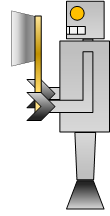
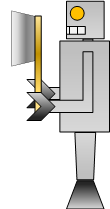
Fixed most of the bot positions, right bot is still one two far over

diff --git a/Server/BattleOfTheBots/LeaderboardForm.Designer.cs b/Server/BattleOfTheBots/LeaderboardForm.Designer.cs
@@ -78,40 +78,37 @@
             this.panel2.Controls.Add(this.lblCurrentMatch);
             this.panel2.Dock = System.Windows.Forms.DockStyle.Top;
             this.panel2.Location = new System.Drawing.Point(0, 0);
-            this.panel2.Margin = new System.Windows.Forms.Padding(4);
             this.panel2.Name = "panel2";
-            this.panel2.Size = new System.Drawing.Size(1582, 86);
+            this.panel2.Size = new System.Drawing.Size(1186, 70);
             this.panel2.TabIndex = 1;
             // 
             // lblCurrentMatch
             // 
             this.lblCurrentMatch.AutoSize = true;
             this.lblCurrentMatch.Font = new System.Drawing.Font("Microsoft Sans Serif", 18F, System.Drawing.FontStyle.Regular, System.Drawing.GraphicsUnit.Point, ((byte)(0)));
-            this.lblCurrentMatch.Location = new System.Drawing.Point(16, 26);
-            this.lblCurrentMatch.Margin = new System.Windows.Forms.Padding(4, 0, 4, 0);
+            this.lblCurrentMatch.Location = new System.Drawing.Point(12, 21);
             this.lblCurrentMatch.Name = "lblCurrentMatch";
-            this.lblCurrentMatch.Size = new System.Drawing.Size(203, 36);
+            this.lblCurrentMatch.Size = new System.Drawing.Size(162, 29);
             this.lblCurrentMatch.TabIndex = 0;
             this.lblCurrentMatch.Text = "Current Match";
             // 
             // panel1
             // 
+            this.panel1.BackColor = System.Drawing.Color.Transparent;
             this.panel1.Controls.Add(this.panelBotUIDock);
             this.panel1.Controls.Add(this.gridLeaderboard);
             this.panel1.Dock = System.Windows.Forms.DockStyle.Fill;
-            this.panel1.Location = new System.Drawing.Point(0, 86);
-            this.panel1.Margin = new System.Windows.Forms.Padding(4);
+            this.panel1.Location = new System.Drawing.Point(0, 70);
             this.panel1.Name = "panel1";
-            this.panel1.Size = new System.Drawing.Size(1582, 774);
+            this.panel1.Size = new System.Drawing.Size(1186, 674);
             this.panel1.TabIndex = 2;
             // 
             // panelBotUIDock
             // 
             this.panelBotUIDock.Dock = System.Windows.Forms.DockStyle.Fill;
-            this.panelBotUIDock.Location = new System.Drawing.Point(0, 367);
-            this.panelBotUIDock.Margin = new System.Windows.Forms.Padding(4);
+            this.panelBotUIDock.Location = new System.Drawing.Point(0, 267);
             this.panelBotUIDock.Name = "panelBotUIDock";
-            this.panelBotUIDock.Size = new System.Drawing.Size(1582, 407);
+            this.panelBotUIDock.Size = new System.Drawing.Size(1186, 407);
             this.panelBotUIDock.TabIndex = 2;
             // 
             // gridLeaderboard
@@ -131,7 +128,6 @@
             this.gridLeaderboard.Enabled = false;
             this.gridLeaderboard.EnableHeadersVisualStyles = false;
             this.gridLeaderboard.Location = new System.Drawing.Point(0, 0);
-            this.gridLeaderboard.Margin = new System.Windows.Forms.Padding(4);
             this.gridLeaderboard.Name = "gridLeaderboard";
             this.gridLeaderboard.RowHeadersBorderStyle = System.Windows.Forms.DataGridViewHeaderBorderStyle.None;
             dataGridViewCellStyle1.Alignment = System.Windows.Forms.DataGridViewContentAlignment.MiddleLeft;
@@ -151,7 +147,7 @@
             this.gridLeaderboard.SelectionMode = System.Windows.Forms.DataGridViewSelectionMode.FullRowSelect;
             this.gridLeaderboard.ShowEditingIcon = false;
             this.gridLeaderboard.ShowRowErrors = false;
-            this.gridLeaderboard.Size = new System.Drawing.Size(1582, 367);
+            this.gridLeaderboard.Size = new System.Drawing.Size(1186, 267);
             this.gridLeaderboard.TabIndex = 1;
             // 
             // nameDataGridViewTextBoxColumn
@@ -171,13 +167,12 @@
             // 
             // LeaderboardForm
             // 
-            this.AutoScaleDimensions = new System.Drawing.SizeF(8F, 16F);
+            this.AutoScaleDimensions = new System.Drawing.SizeF(6F, 13F);
             this.AutoScaleMode = System.Windows.Forms.AutoScaleMode.Font;
-            this.ClientSize = new System.Drawing.Size(1582, 860);
+            this.ClientSize = new System.Drawing.Size(1186, 744);
             this.Controls.Add(this.panel1);
             this.Controls.Add(this.panel2);
             this.FormBorderStyle = System.Windows.Forms.FormBorderStyle.SizableToolWindow;
-            this.Margin = new System.Windows.Forms.Padding(4);
             this.Name = "LeaderboardForm";
             this.Text = "Battle of the bots leaderboard";
             this.FormClosing += new System.Windows.Forms.FormClosingEventHandler(this.LeaderboardForm_FormClosing);

diff --git a/Server/BattleOfTheBots/BotsUI.cs b/Server/BattleOfTheBots/BotsUI.cs
@@ -12,6 +12,7 @@ using System.Reflection;
 using BattleOfTheBots.UI;
 using BattleOfTheBots.State;
 using BattleOfTheBots.Logic;
+using System.Drawing.Imaging;
 
 namespace BattleOfTheBots.UIControl
 {
@@ -47,7 +48,7 @@ namespace BattleOfTheBots.UIControl
                 gfx.FillRectangle(Brushes.White, 0, 0, panelDrawArea.Width, panelDrawArea.Height);
                 this.DrawArenaFloor(gfx, arenaWidth);
                 this.DrawLeftBot(gfx, leftBot, frame);
-                this.DrawRightBot(gfx, rightBot, frame);                
+                this.DrawRightBot(gfx, rightBot, frame);
             }
             this.DrawImageOnUIPanel(bitmap, new Point(0, 0));
         }
@@ -55,7 +56,7 @@ namespace BattleOfTheBots.UIControl
 
         public void DrawLeftBot(Graphics gfx, BotMove bot, int frame)
         {
-            DrawBot(gfx, bot, frame, Direction.Left, -450);            
+            DrawBot(gfx, bot, frame, Direction.Left,  -450);            
         }
 
         public void DrawRightBot(Graphics gfx, BotMove bot, int frame)
@@ -71,19 +72,25 @@ namespace BattleOfTheBots.UIControl
                 Bitmap botImage = UIManager.GetBitmapResource(image);
                 if (bot != null)
                 {
+
+                    int botxpos = direction == Direction.Right
+                        ? _arenaPositions[bot.Bot.Position] - botImage.Width  + 136 :
+                        _arenaPositions[bot.Bot.Position]  ;
+
                     if (bot.Bot.IsFlipped)
                     {
-                        var roFlip = direction == Direction.Right
+                        var roFlip = direction == Direction.Right   
                             ? RotateFlipType.Rotate90FlipNone
                             : RotateFlipType.Rotate270FlipNone;
 
                         botImage.RotateFlip(roFlip);
+
                         gfx.DrawImage(botImage,
-                            new Point(_arenaPositions[bot.Bot.Position] - botImage.Width, panelDrawArea.Height - botImage.Height - 17));
+                            new Point(botxpos, panelDrawArea.Height - botImage.Height - 55));
                     }
                     else
                     {
-                        gfx.DrawImage(botImage, new Point(_arenaPositions[bot.Bot.Position] - botImage.Width, panelDrawArea.Height - botImage.Height - 17));
+                        gfx.DrawImage(botImage, new Point(botxpos, panelDrawArea.Height - botImage.Height - 55));
                     }
                 }
 
@@ -93,7 +100,11 @@ namespace BattleOfTheBots.UIControl
                     Bitmap bubble = UIManager.GetBitmapResource(bubbleName);
                     if (bubble != null)
                     {
-                        gfx.DrawImage(bubble, new Point(_arenaPositions[bot.Bot.Position] - 68 + bubbleXOffset, panelDrawArea.Height - botImage.Height - 127));
+                        var bubblexpos = direction == Direction.Right 
+                            ? panelDrawArea.Width - (bubble.Width + 20) 
+                            : 20;
+
+                        gfx.DrawImage(bubble, new Point( bubblexpos, panelDrawArea.Height - (bubble.Height + 55)));
                     }
                 }
             }
@@ -140,6 +151,7 @@ namespace BattleOfTheBots.UIControl
                 case Logic.Move.AttackWithAxe:
                 case Logic.Move.Shunt:
                 case Logic.Move.Flip:
+                case Logic.Move.FlameThrower:
                     return 3;
                 default:
                     return 1;
@@ -179,11 +191,27 @@ namespace BattleOfTheBots.UIControl
                     return null;
             }
         }
-
-        public void DrawImageOnUIPanel(Bitmap image, Point location)
+        
+        public void DrawImageOnUIPanel(Bitmap image, Point location )
         {
-            Graphics g = panelDrawArea.CreateGraphics();
-            g.DrawImage(image, location);
+            
+
+            //ColorMatrix matrix = new ColorMatrix();
+            //matrix.Matrix33 = 0.1f;
+            //ImageAttributes attributes = new ImageAttributes();
+            //attributes.SetColorMatrix(matrix, ColorMatrixFlag.Default, ColorAdjustType.Bitmap);
+
+            Bitmap destImg = new Bitmap(image.Width, image.Height);
+            Graphics g = Graphics.FromImage(destImg);
+
+            g.DrawImage((Image) image, new Rectangle(0, 0, destImg.Width, destImg.Height),
+                 0, 0, image.Width, image.Height,GraphicsUnit.Pixel);
+
+          
+
+            g = panelDrawArea.CreateGraphics();           
+            g.DrawImage(destImg, location);            
         }
-    }
+
+}
 }

diff --git a/Server/BattleOfTheBots/Properties/Resources.Designer.cs b/Server/BattleOfTheBots/Properties/Resources.Designer.cs
@@ -163,9 +163,49 @@ namespace BattleOfTheBots.Properties {
         /// <summary>
         ///   Looks up a localized resource of type System.Drawing.Bitmap.
         /// </summary>
+        internal static System.Drawing.Bitmap Flame_left_2 {
+            get {
+                object obj = ResourceManager.GetObject("Flame_left_2", resourceCulture);
+                return ((System.Drawing.Bitmap)(obj));
+            }
+        }
+        
+        /// <summary>
+        ///   Looks up a localized resource of type System.Drawing.Bitmap.
+        /// </summary>
+        internal static System.Drawing.Bitmap Flame_left_3 {
+            get {
+                object obj = ResourceManager.GetObject("Flame_left_3", resourceCulture);
+                return ((System.Drawing.Bitmap)(obj));
+            }
+        }
+        
+        /// <summary>
+        ///   Looks up a localized resource of type System.Drawing.Bitmap.
+        /// </summary>
         internal static System.Drawing.Bitmap Flame_right_1 {
             get {
                 object obj = ResourceManager.GetObject("Flame_right_1", resourceCulture);
+                return ((System.Drawing.Bitmap)(obj));
+            }
+        }
+        
+        /// <summary>
+        ///   Looks up a localized resource of type System.Drawing.Bitmap.
+        /// </summary>
+        internal static System.Drawing.Bitmap Flame_right_2 {
+            get {
+                object obj = ResourceManager.GetObject("Flame_right_2", resourceCulture);
+                return ((System.Drawing.Bitmap)(obj));
+            }
+        }
+        
+        /// <summary>
+        ///   Looks up a localized resource of type System.Drawing.Bitmap.
+        /// </summary>
+        internal static System.Drawing.Bitmap Flame_right_3 {
+            get {
+                object obj = ResourceManager.GetObject("Flame_right_3", resourceCulture);
                 return ((System.Drawing.Bitmap)(obj));
             }
         }

diff --git a/Server/BattleOfTheBots/LeaderboardForm.cs b/Server/BattleOfTheBots/LeaderboardForm.cs
@@ -48,7 +48,15 @@ namespace BattleOfTheBots
 
                     botUI.Update(9, leftBot, rightBot, i);
                     
-                    Thread.Sleep(150); // this isn't good - it blocks the UI thread making it unresponsive
+
+                    /* Set short sleep and process messages in a loop 
+                       to stop Thread.sleep blocking UI
+                     */                    
+                    for (var x=0; x<10; x++)
+                    {
+                        Thread.Sleep(10); 
+                        Application.DoEvents();
+                    }
                 }
             }
         }

diff --git a/Server/BattleOfTheBots/BotsUI.Designer.cs b/Server/BattleOfTheBots/BotsUI.Designer.cs
@@ -33,7 +33,8 @@
             // 
             // panelDrawArea
             // 
-            this.panelDrawArea.BackColor = System.Drawing.Color.White;
+            this.panelDrawArea.BackColor = System.Drawing.Color.Transparent;
+            this.panelDrawArea.BackgroundImageLayout = System.Windows.Forms.ImageLayout.None;
             this.panelDrawArea.Dock = System.Windows.Forms.DockStyle.Fill;
             this.panelDrawArea.Location = new System.Drawing.Point(0, 0);
             this.panelDrawArea.Name = "panelDrawArea";
